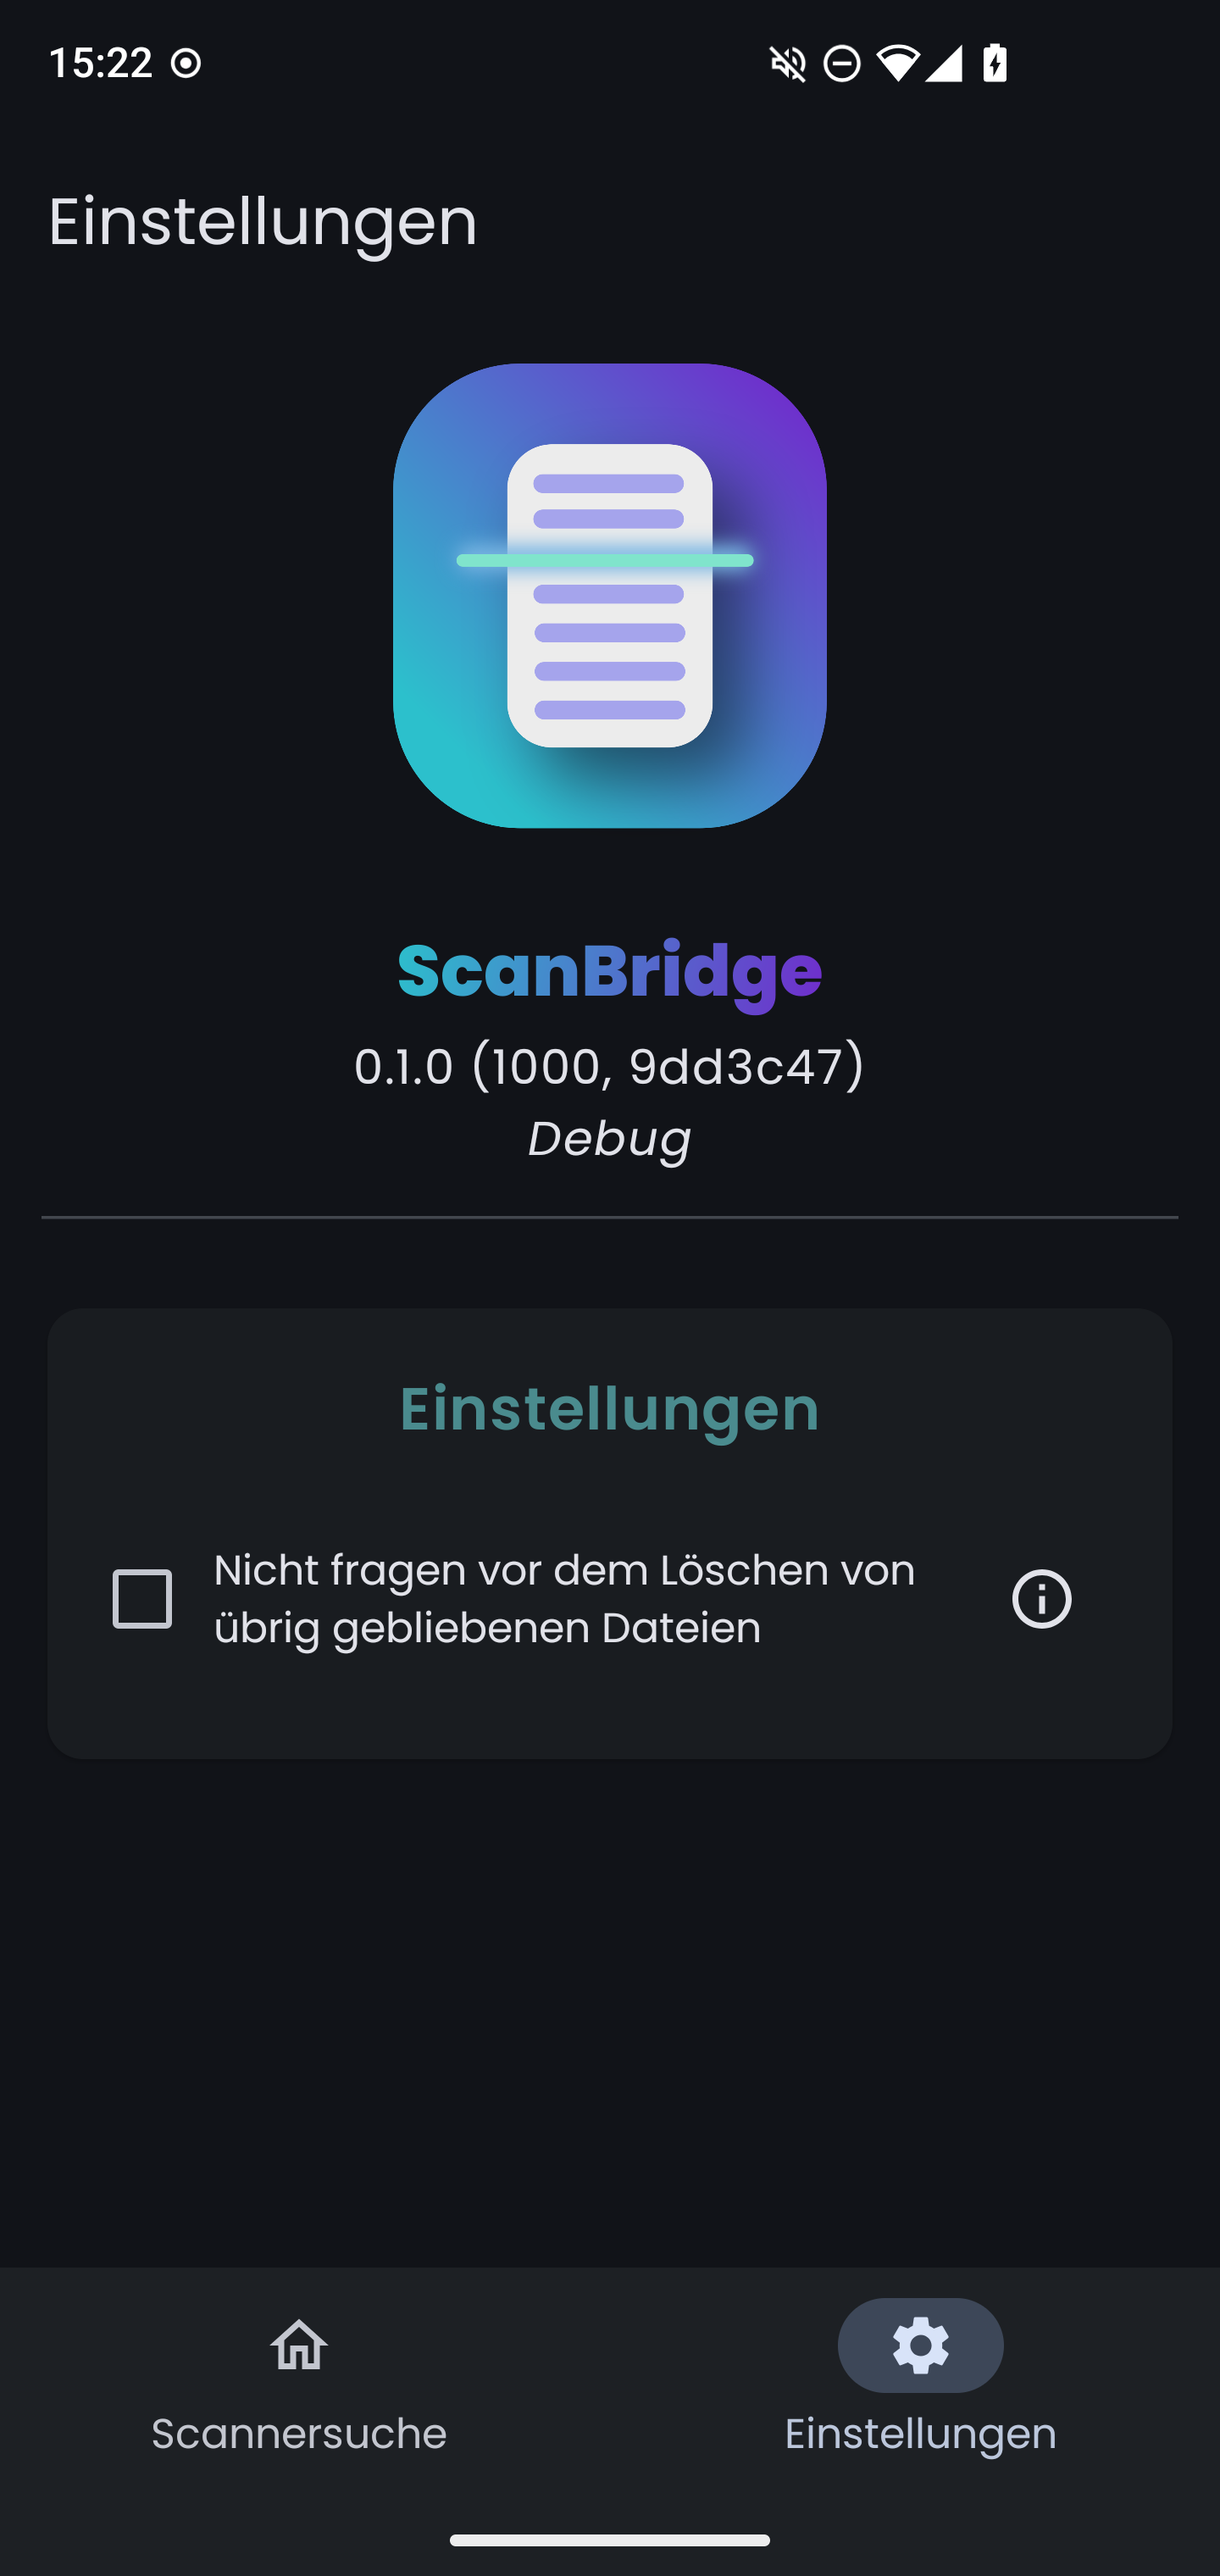
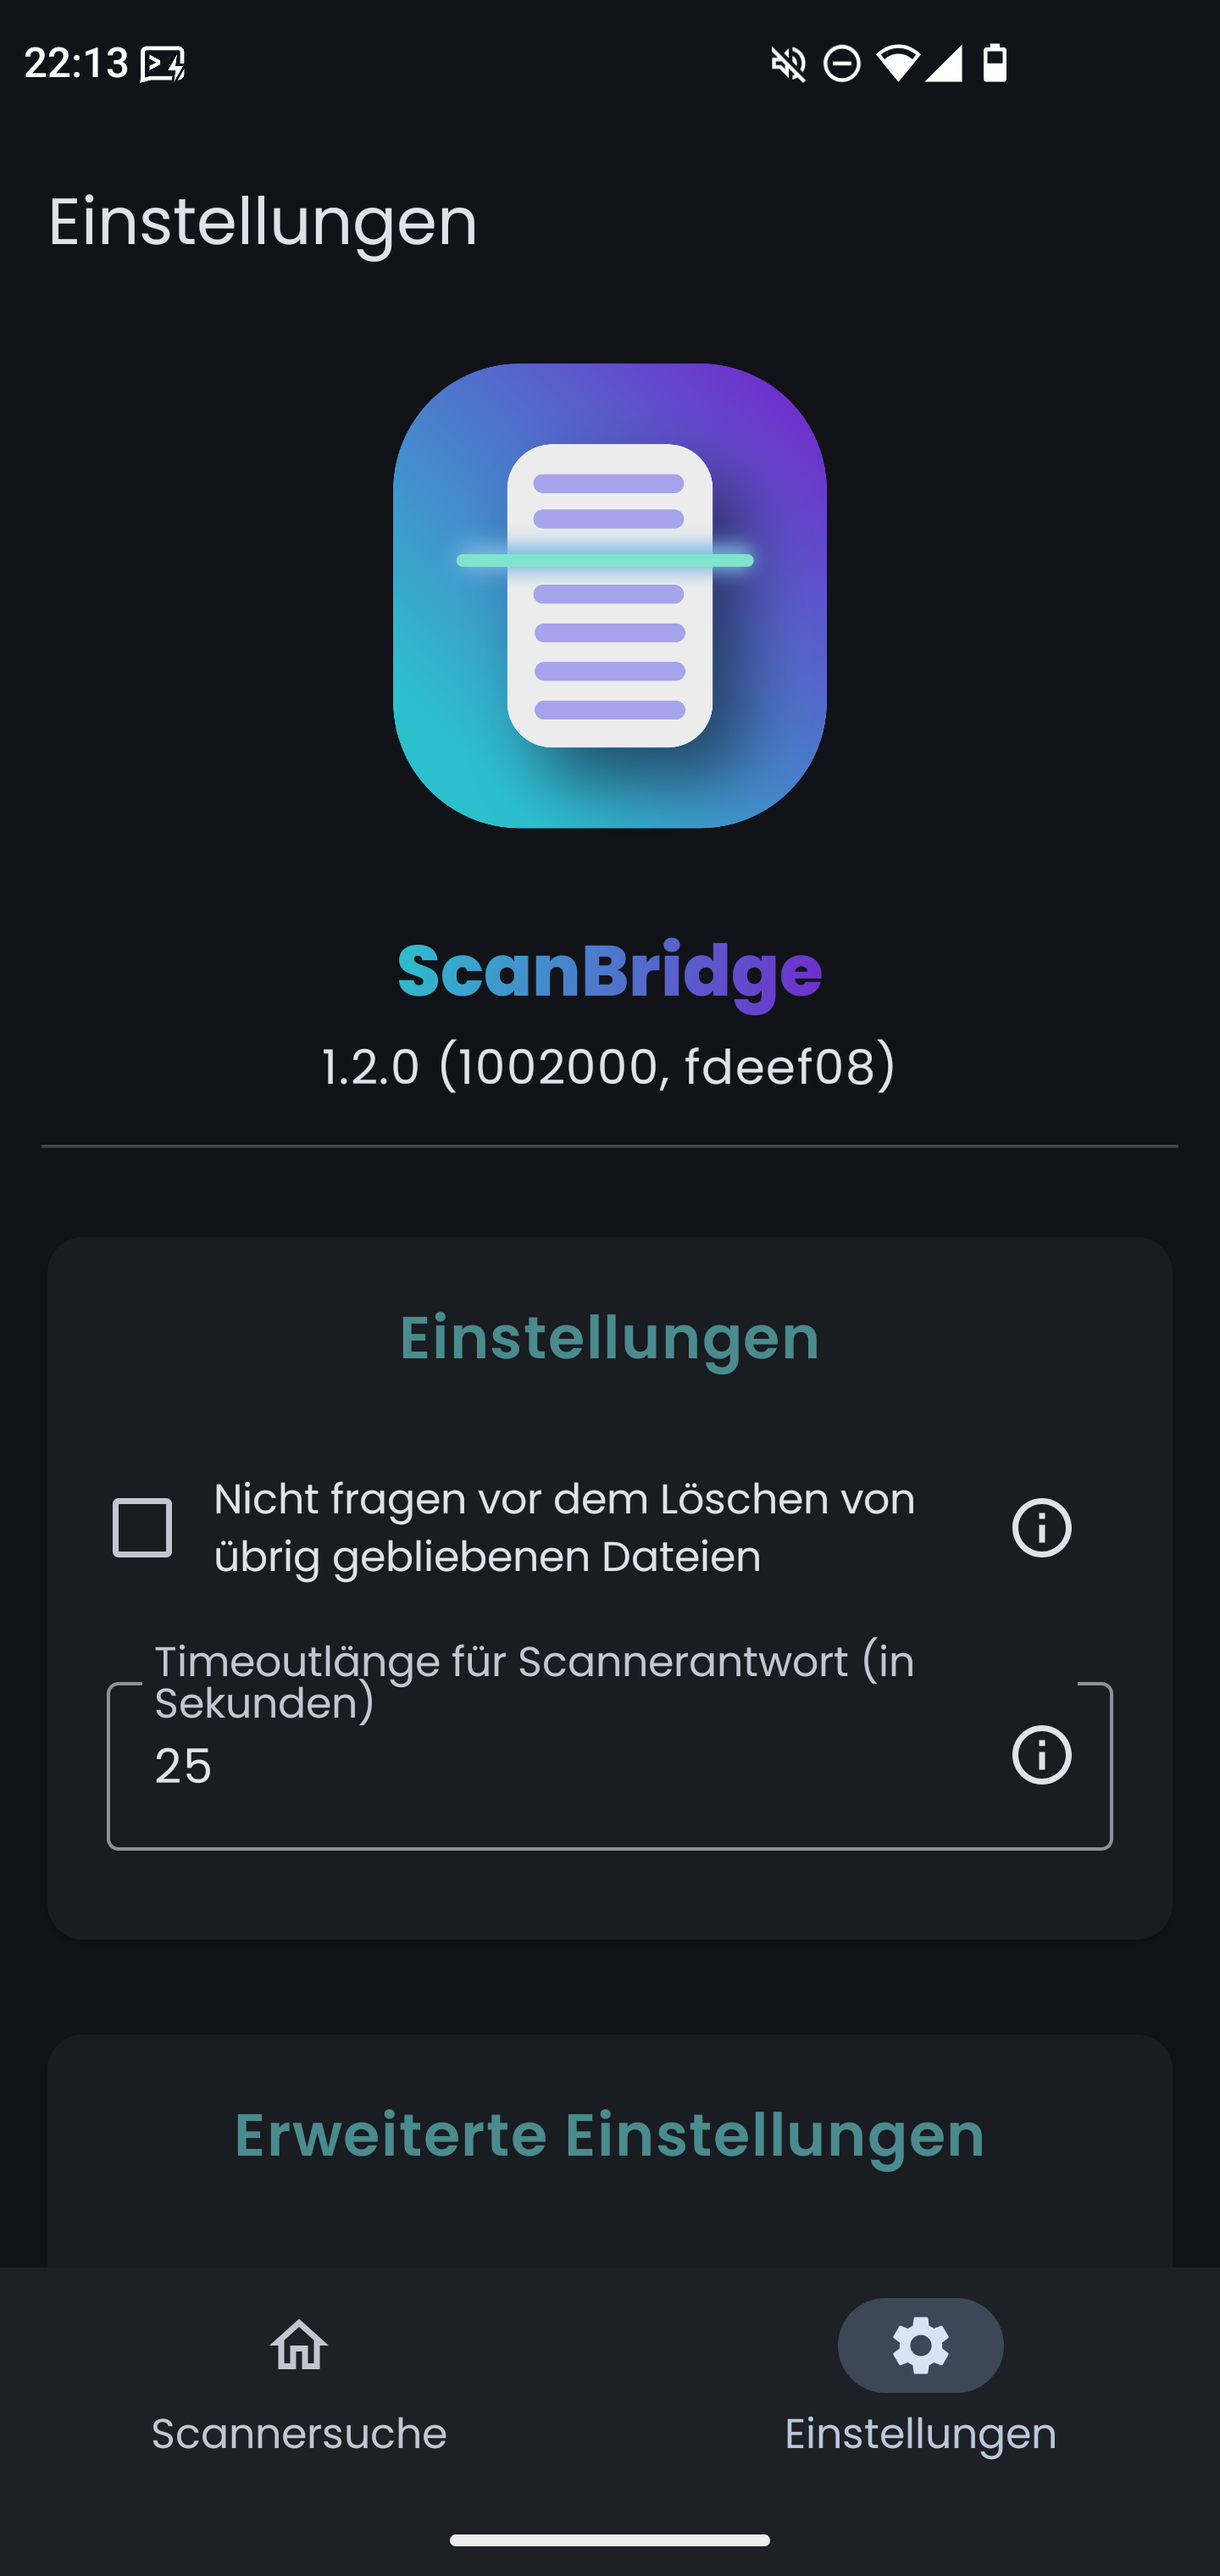
Release v1.2.0

diff --git a/CHANGELOG.md b/CHANGELOG.md
@@ -4,6 +4,29 @@ All notable changes to this project will be documented in this file.
 
 The format is based on [Keep a Changelog](https://keepachangelog.com/en/1.1.0/).
 
+## [1.2.0] - 2025-02-14
+
+### Added
+
+- Debug logging option ([#41](https://github.com/Chrisimx/ScanBridge/issues/41))
+- Timeout setting ([#46](https://github.com/Chrisimx/ScanBridge/issues/46))
+
+### Fixed
+
+#### Scanner support
+- **Confirmed fixed:** HP Color Laserjet MFP M283fdw ([#39](https://github.com/Chrisimx/ScanBridge/issues/39)), HP DeskJet 3630 ([#47](https://github.com/Chrisimx/ScanBridge/issues/47)), EPSON ET-2650 ([#57](https://github.com/Chrisimx/ScanBridge/issues/57))
+- **Maybe fixed:** Kyocera ECOSYS M5521cdn ([#50](https://github.com/Chrisimx/ScanBridge/issues/50)), HP Neverstop Laser MFP 1200w ([#55](https://github.com/Chrisimx/ScanBridge/issues/55))
+
+#### Others issues
+
+- Use published port instead of 80/443 (76baa05f)
+- Layout of full screen error dialog with very long error messages (311f36c)
+- Crashes on older Android versions with API level < 34 because of unsupported API calls (64bebf55c, 9b5bd7577, bfde9e4a0ec)
+
+### Changed
+
+- Allow user-defined root CAs for HTTPS connections, disallowed before ([#48](https://github.com/Chrisimx/ScanBridge/issues/48))
+
 ## [1.1.0] - 2025-01-28
 
 ### Added
@@ -50,8 +73,9 @@ The format is based on [Keep a Changelog](https://keepachangelog.com/en/1.1.0/).
 - Handle temporary files properly
 - Localization for English and German
 
-[unreleased]: https://github.com/Chrisimx/ScanBridge/compare/v1.1.0...HEAD
+[unreleased]: https://github.com/Chrisimx/ScanBridge/compare/v1.2.0...HEAD
 
+[1.2.0]: https://github.com/Chrisimx/ScanBridge/compare/v1.1.0...v1.2.0
 [1.1.0]: https://github.com/Chrisimx/ScanBridge/compare/v1.0.1...v1.1.0
 [1.0.1]: https://github.com/Chrisimx/ScanBridge/compare/v1.0.0...v1.0.1
 [1.0.0]: https://github.com/Chrisimx/ScanBridge/commits/v1.0.0/
